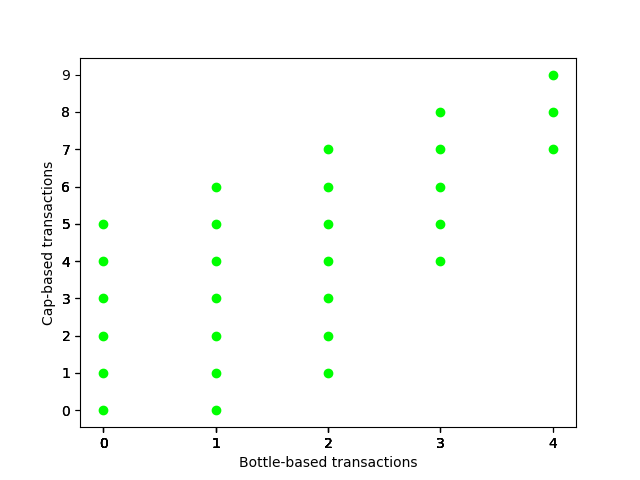
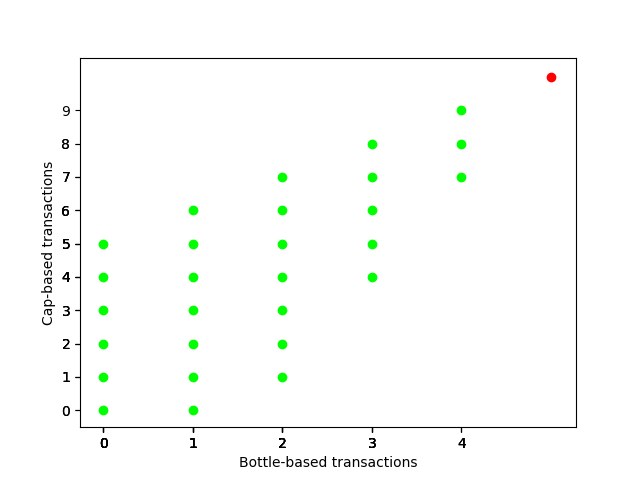
Added red point for unreachable spot
For the circumstance that seems possible because it doesn't leave you in
debt, but impossible to cross without going into debt in the middle

diff --git a/python/non-debt-transactions.py b/python/non-debt-transactions.py
@@ -25,6 +25,7 @@ while not len(check) == 0:
     tmp = []
 
 plt.scatter([i[0] for i in ok], [i[1] for i in ok], c=(0, 1, 0))
+plt.scatter([5], [10], c=(1, 0, 0))
 plt.xlabel('Bottle-based transactions')
 plt.ylabel('Cap-based transactions')
 plt.xticks([i[0] for i in ok])
